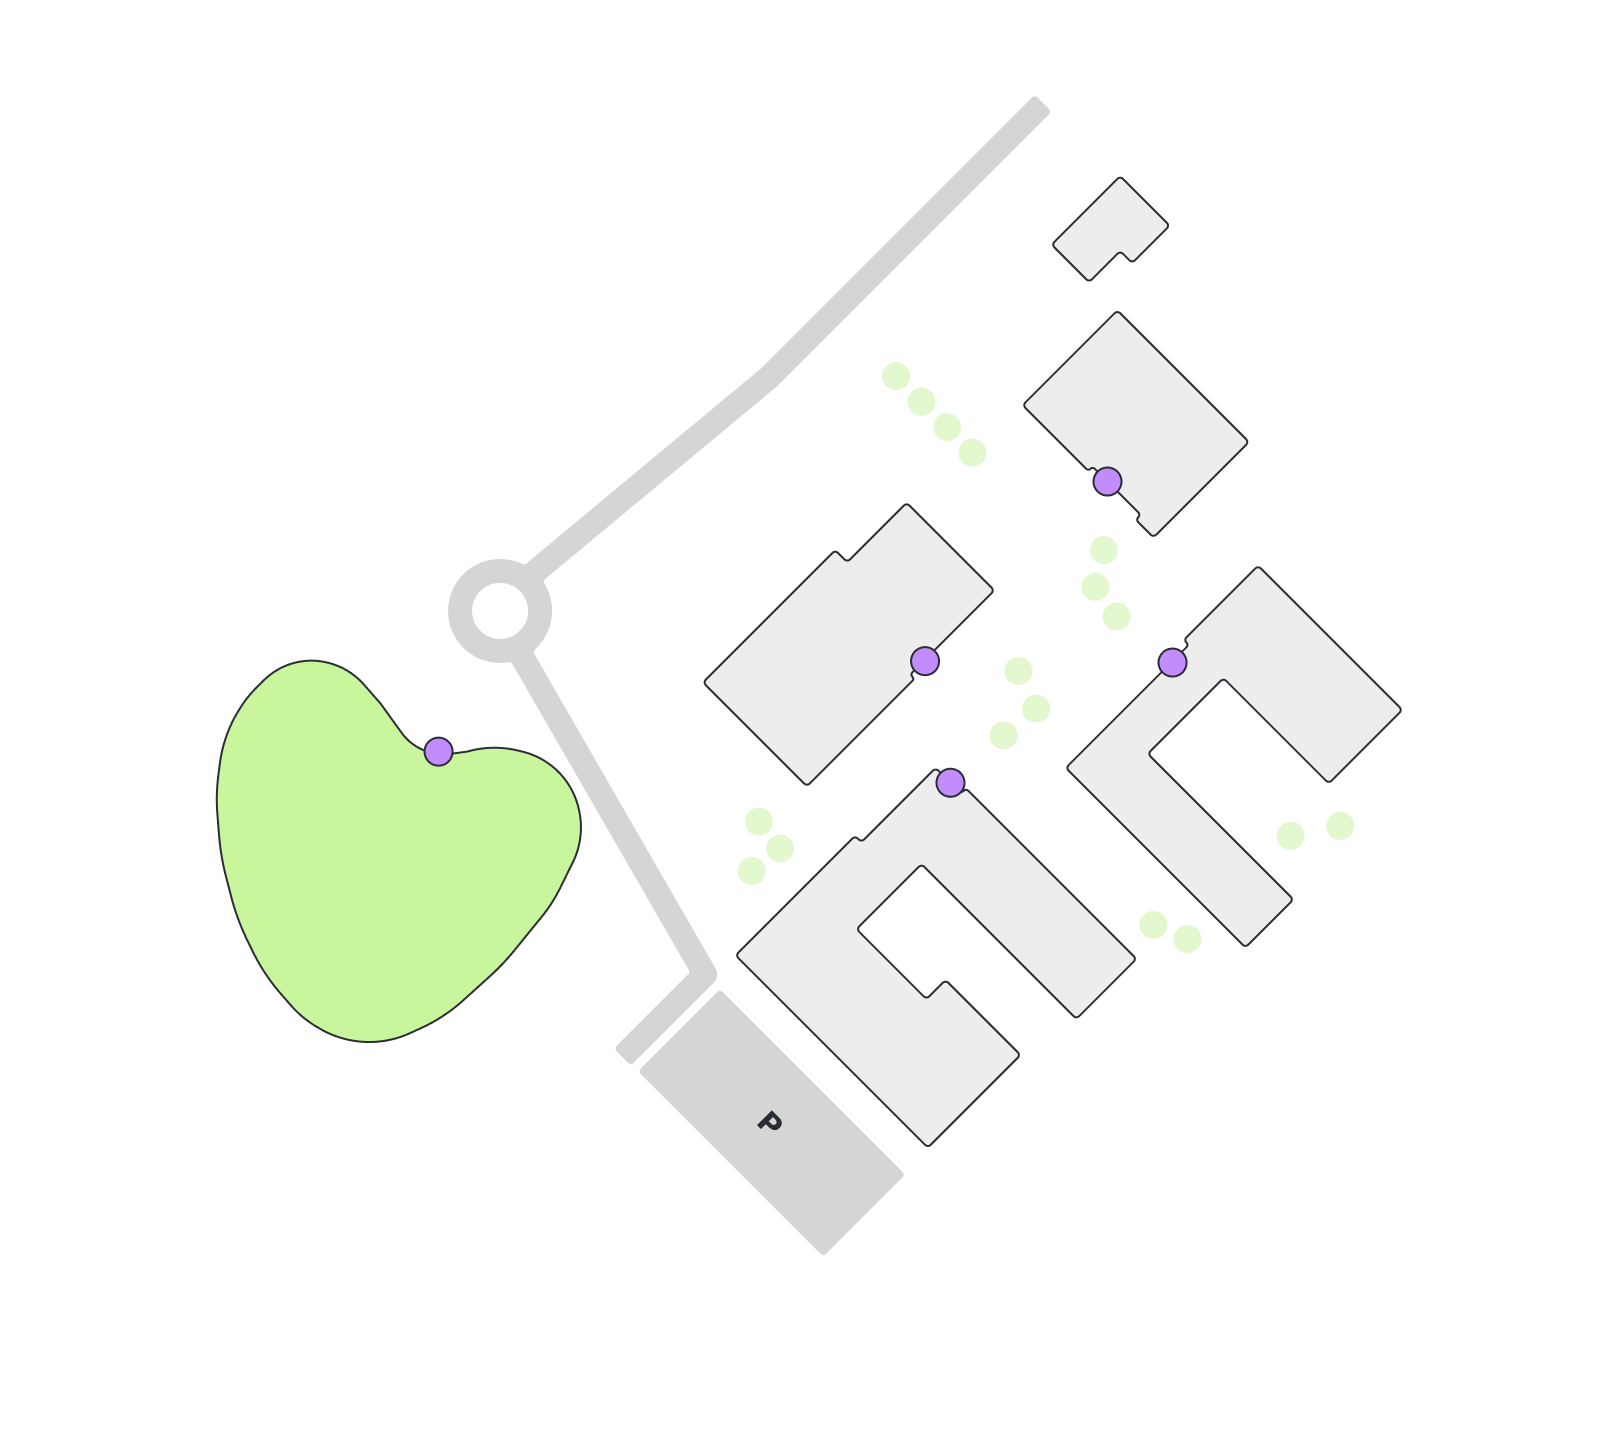
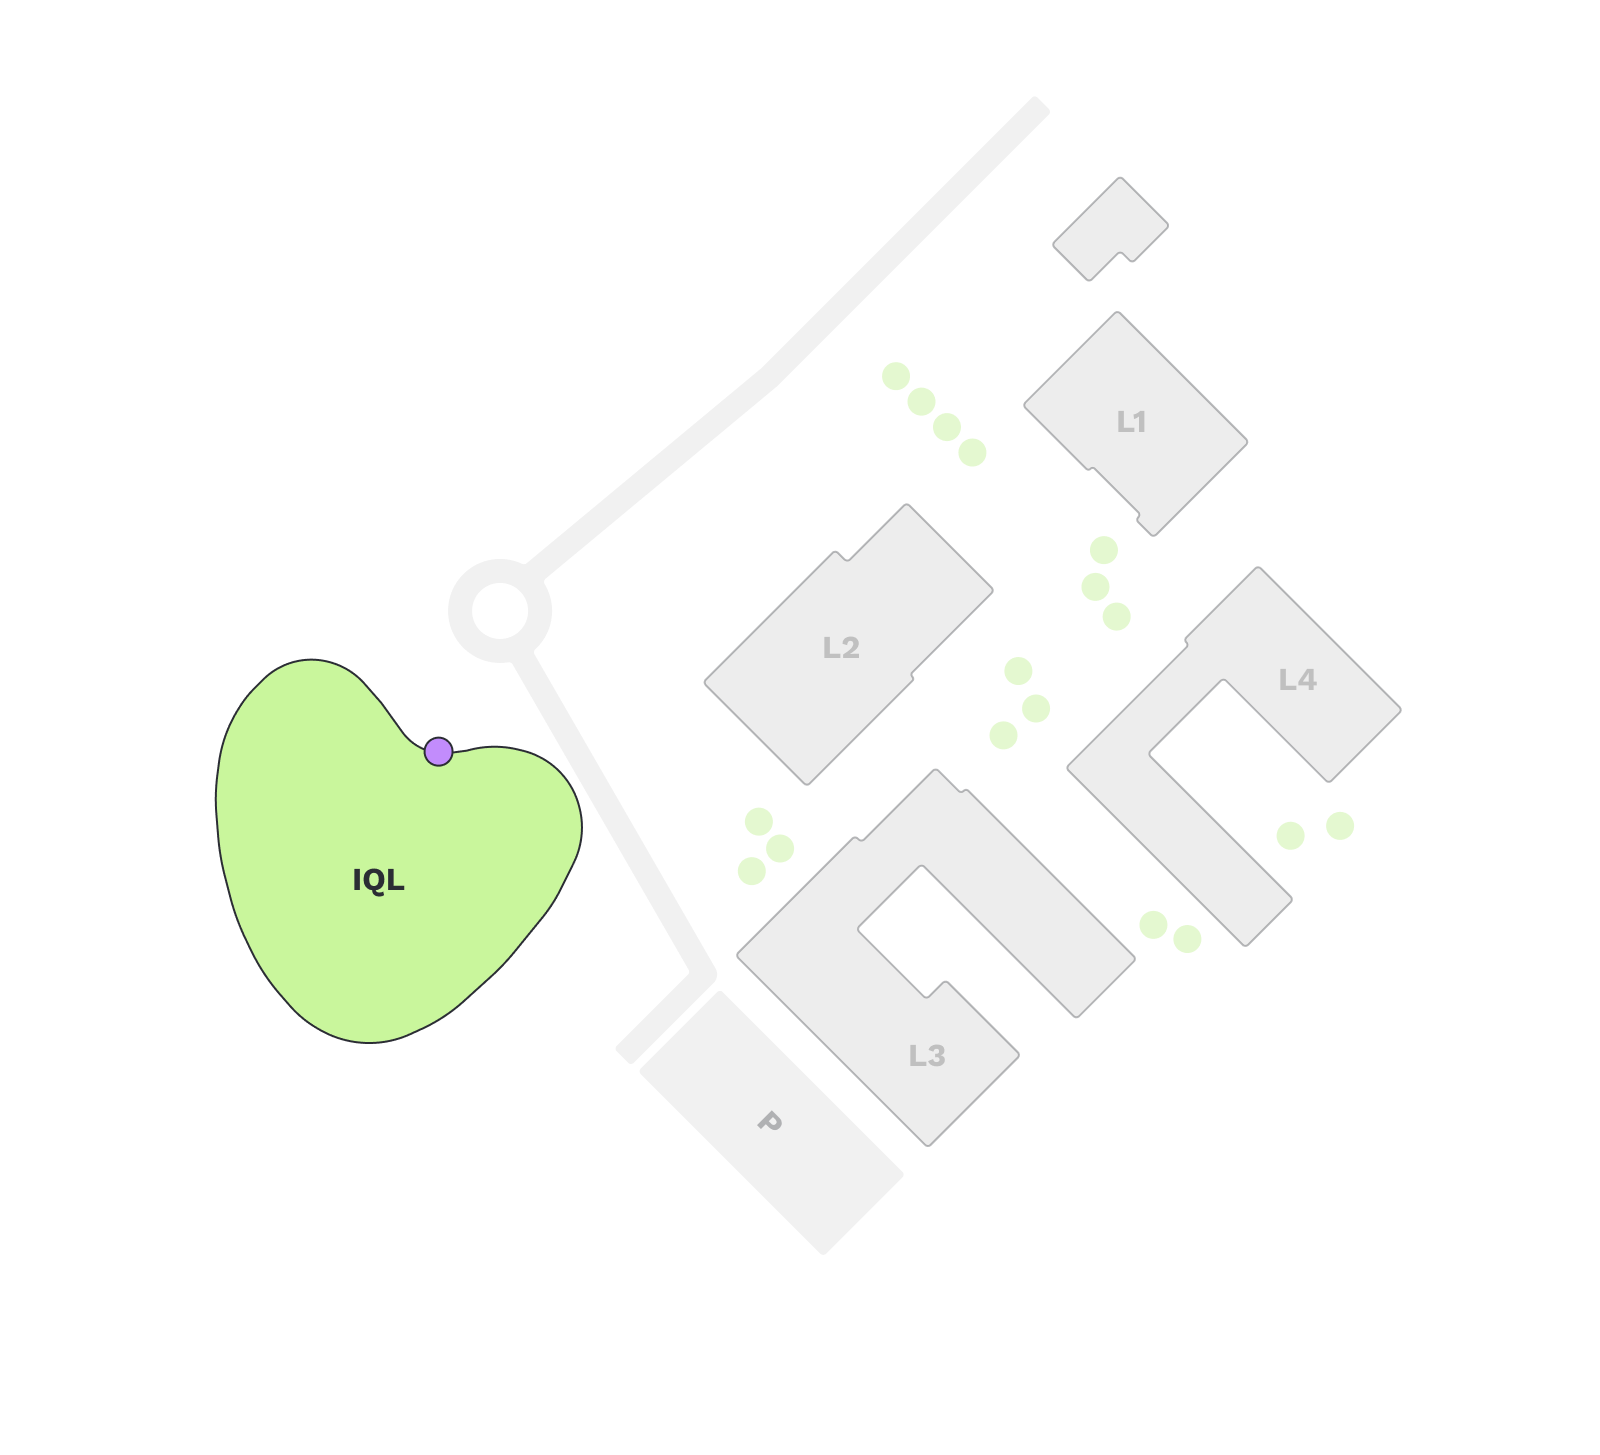
changed map images, removed unnecessary buttons

diff --git a/components/Campus.tsx b/components/Campus.tsx
@@ -30,16 +30,16 @@ export default function Campus ({onBuilding, destination} : Props) {
                 contentHeight={400}
             >
                 <View style={{zIndex: -1, position: "relative", justifyContent: "center", display:'flex', alignItems: "center", padding: 30, flex: 1}}>
-
-                    <View style={{zIndex:4, position: 'absolute', alignSelf: 'center', width: 600, height: 450, flex: 1}}>
-                        <ButtonBuilding id={0} onBuilding={(id) => onBuilding(id)} color={customColors.uwu} selected={destination.room == -1} coords={[410, 95]}>L1</ButtonBuilding>
-                        <ButtonBuilding id={1} onBuilding={(id) => onBuilding(id)} color={customColors.uwu} selected={destination.room == -1} coords={[290, 185]}>L2</ButtonBuilding>
-                        <ButtonBuilding id={2} onBuilding={(id) => onBuilding(id)} color={customColors.uwu} selected={destination.room == -1} coords={[335, 335]}>L3</ButtonBuilding>
-                        <ButtonBuilding id={3} onBuilding={(id) => onBuilding(id)} color={customColors.uwu} selected={destination.room == -1} coords={[480, 200]}>L4</ButtonBuilding>
-                        <ButtonBuilding id={4} onBuilding={(id) => onBuilding(id)} color={customColors.uwu} selected={destination.room == -1} coords={[140, 250]}>IQL</ButtonBuilding>
-                    </View>
                     {destination.room == -1 ?
                         <>
+
+                            <View style={{zIndex:4, position: 'absolute', alignSelf: 'center', width: 600, height: 450, flex: 1}}>
+                                <ButtonBuilding id={0} onBuilding={(id) => onBuilding(id)} color={customColors.uwu} selected={destination.room == -1} coords={[410, 95]}>L1</ButtonBuilding>
+                                <ButtonBuilding id={1} onBuilding={(id) => onBuilding(id)} color={customColors.uwu} selected={destination.room == -1} coords={[290, 185]}>L2</ButtonBuilding>
+                                <ButtonBuilding id={2} onBuilding={(id) => onBuilding(id)} color={customColors.uwu} selected={destination.room == -1} coords={[335, 335]}>L3</ButtonBuilding>
+                                <ButtonBuilding id={3} onBuilding={(id) => onBuilding(id)} color={customColors.uwu} selected={destination.room == -1} coords={[480, 200]}>L4</ButtonBuilding>
+                                <ButtonBuilding id={4} onBuilding={(id) => onBuilding(id)} color={customColors.uwu} selected={destination.room == -1} coords={[140, 250]}>IQL</ButtonBuilding>
+                            </View>
                             <Image source={require('../assets/maps/map.png')}
                                    resizeMethod={"resize"}
                                    progressiveRenderingEnabled={true}

diff --git a/components/Search.tsx b/components/Search.tsx
@@ -72,7 +72,7 @@ export const Search = ({status, category, room, selectRoom, selectBuilding, onCl
                                     }
                                 >Seminarräume</Button>
 
-                                <Text style={styles.defaultHeader}>Alle Raeume</Text>
+                                <Text style={styles.defaultHeader}>All Rooms</Text>
                                 {/*<RoomGrid/>*/}
                             </>
                         :

diff --git a/pages/Home.tsx b/pages/Home.tsx
@@ -60,7 +60,7 @@ export const Home = ({navigation}) => {
                                                name: "Navigation",
                                                destination: destination
                                            })}>
-                            Navigation starten
+                            Start Navigation
                         </ButtonTextAndIcon>
                     }
                     {room == -1 ?
